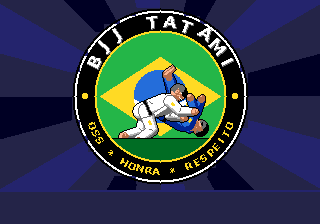
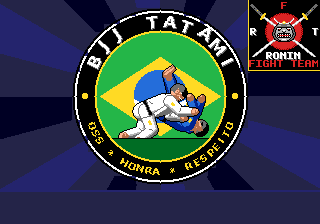
Blason du club Ronin Fight Team : etendards dans les 3 arenes, panneau pub, ecran titre
Claude-Session: https://claude.ai/code/session_01HQRDuJ1VTLTutMfaZuDvsE

Changed region(s): [[0.75, 0.0, 1.0, 0.3438]]

diff --git a/tools/art/logo.py b/tools/art/logo.py
@@ -1,0 +1,164 @@
+"""Blason du club (Ronin Fight Team) redessine en pixel art aux couleurs de PAL3.
+
+Le soleil rouge, les katanas croises et les lettres sont dessines a la main (traits nets),
+le casque et le masque de samourai sont dessines pixel par pixel (MASK).
+"""
+import math
+import os
+
+import numpy as np
+from PIL import Image, ImageEnhance
+
+from build_ui import PAL3, K, WH, LG, DG, RD, DR, YE, OR
+from font import glyph
+
+ROOT = os.path.dirname(os.path.dirname(os.path.dirname(os.path.abspath(__file__))))
+SRC = os.path.join(ROOT, "res", "logo", "ronin_src.jpg")
+
+
+def _quant(a, use):
+    pal = np.array([PAL3[i] for i in use], float)
+    d = ((a[:, :, None, :] - pal[None, None]) ** 2).sum(-1)
+    return np.array(use)[d.argmin(-1)]
+
+
+MASK = [
+    "..W..................W..",
+    "..WL................LW..",
+    "...WL..............LW...",
+    "....WL.....YY.....LW....",
+    ".....WLL..YWWY..LLW.....",
+    "......KWWWLYYLWWWK......",
+    ".....KDDDDDDDDDDDDK.....",
+    "....KDLLLDDDDDDLLLDK....",
+    "...KDDDDDDDDDDDDDDDDK...",
+    "..KDDKKKKKKKKKKKKKKDDK..",
+    "..KDKWWWWKLLLLKWWWWKDK..",
+    ".KDDKLKRKLLLLLLKRKLKDDK.",
+    ".KDKLLKKLLLWWLLLKKLLKDK.",
+    ".KDKLLLLLLKLLKLLLLLLKDK.",
+    "KDDKLLLLLLLKKLLLLLLLKDDK",
+    "KDKDLLKKKKKKKKKKKKLLDKDK",
+    "KDKDLKWKWKWKKWKWKWKLDKDK",
+    "KDDKLKKRRRRRRRRRRKKLKDDK",
+    ".KDKLKWKWKWKKWKWKWKLKDK.",
+    ".KDDKLKKKKKKKKKKKKLKDDK.",
+    "..KDDKLLLLLLLLLLLLKDDK..",
+    "..KKDDKLLLWWWWLLLKDDKK..",
+    "....KKDKKLLLLLLKKDKK....",
+    "......KKKKKKKKKKKK......",
+]
+MCOL = {"K": K, "D": DG, "L": LG, "W": WH, "R": RD, "Y": YE}
+
+
+def _mask_paste(a, x0, y0):
+    for y, row in enumerate(MASK):
+        assert len(row) == 24, (y, len(row))
+        for x, ch in enumerate(row):
+            if ch != "." and 0 <= y0 + y < a.shape[0] and 0 <= x0 + x < a.shape[1]:
+                a[y0 + y, x0 + x] = MCOL[ch]
+
+
+def _text(a, s, x, y, c, shadow=None):
+    for i, ch in enumerate(s):
+        g = glyph(ch)
+        for gy in range(7):
+            for gx in range(6):
+                if g[gy][gx]:
+                    if shadow is not None and 0 <= y + gy + 1 < a.shape[0] and 0 <= x + i * 7 + gx + 1 < a.shape[1]:
+                        if a[y + gy + 1, x + i * 7 + gx + 1] != c:
+                            a[y + gy + 1, x + i * 7 + gx + 1] = shadow
+        for gy in range(7):
+            for gx in range(6):
+                if g[gy][gx] and 0 <= y + gy < a.shape[0] and 0 <= x + i * 7 + gx < a.shape[1]:
+                    a[y + gy, x + i * 7 + gx] = c
+
+
+def _line(a, x0, y0, x1, y1, c, wdt=1.0):
+    n = int(max(abs(x1 - x0), abs(y1 - y0)) * 3) + 1
+    for k in range(n + 1):
+        t = k / n
+        x, y = x0 + (x1 - x0) * t, y0 + (y1 - y0) * t
+        for dy in range(-2, 3):
+            for dx in range(-2, 3):
+                xx, yy = int(round(x + dx * 0.5)), int(round(y + dy * 0.5))
+                if (dx * 0.5) ** 2 + (dy * 0.5) ** 2 <= (wdt / 2) ** 2 + 0.01 and 0 <= yy < a.shape[0] and 0 <= xx < a.shape[1]:
+                    a[yy, xx] = c
+
+
+def badge(w=56, h=56, subtitle=False):
+    """blason complet : tableau h x w d'indices PAL3, fond K."""
+    a = np.full((h, w), K, np.int32)
+    cx = w / 2 - 0.5
+    top = 9
+    cy = top + (h - top - (17 if subtitle else 9)) / 2
+    R = min(w * 0.27, (h - top) * 0.33)
+    yy, xx = np.mgrid[0:h, 0:w]
+    r = np.hypot(xx - cx, yy - cy)
+    # soleil rouge
+    a[r <= R] = RD
+    a[(r <= R) & (r > R - 1.5) & ((xx + yy) % 2 == 0)] = DR
+    # katanas croises : poignee en haut, lame vers le bas
+    for s in (-1, 1):
+        hx, hy = cx + s * (w * 0.46), top - 6           # bout de la poignee
+        gx_, gy_ = cx + s * (w * 0.30), top + 5         # garde (tsuba)
+        bx, by = cx - s * (w * 0.44), h - (12 if subtitle else 6)   # pointe
+        _line(a, hx, hy, gx_, gy_, DG, 2.2)
+        # tresse de la poignee
+        for k in range(1, 4):
+            t = k / 4
+            px, py = int(round(hx + (gx_ - hx) * t)), int(round(hy + (gy_ - hy) * t))
+            if 0 <= py < h and 0 <= px < w:
+                a[py, px] = YE if k == 2 else K
+        _line(a, gx_, gy_, bx, by, LG, 1.6)
+        _line(a, gx_ + s * 0.5, gy_ - 0.5, bx + s * 0.5, by - 0.5, WH, 0.9)
+        dx, dy = bx - hx, by - hy
+        n = math.hypot(dx, dy)
+        px_, py_ = -dy / n * 2.6, dx / n * 2.6
+        _line(a, gx_ - px_, gy_ - py_, gx_ + px_, gy_ + py_, YE, 1.6)
+        a[int(round(gy_)), int(round(gx_))] = OR
+    # casque et masque de samourai (kabuto + menpo)
+    _mask_paste(a, int(round(cx - 11.5)), int(round(cy - 13)))
+    # lettres R, F, T
+    _text(a, "F", int(cx - 2), 0, RD)
+    _text(a, "R", 1, int(cy) - 3, WH, DG)
+    _text(a, "T", w - 7, int(cy) - 3, WH, DG)
+    # nom du club
+    ty = h - (16 if subtitle else 8)
+    _text(a, "RONIN", int(cx - 17), ty, WH, DG)
+    if subtitle:
+        _text(a, "FIGHT TEAM", int(cx - 35), ty + 8, RD)
+    return a
+
+
+def banner(w=56, h=64):
+    """etendard suspendu : tringle, blason, franges dorees."""
+    a = np.full((h, w), K, np.int32)
+    a[0:3, :] = DG
+    a[1, :] = LG
+    a[0:3, 0] = YE
+    a[0:3, w - 1] = YE
+    a[3:h - 6, 3:w - 3] = badge(w - 6, h - 9)
+    a[3:h - 6, 0] = DG
+    a[3:h - 6, w - 1] = DG
+    a[3:h - 6, 1:3] = K
+    a[3:h - 6, w - 3:w - 1] = K
+    for x in range(w):
+        for y in range(h - 6, h):
+            a[y, x] = YE if (y - (h - 6)) < 2 else (OR if (x % 3 != 2 and y - (h - 6) < 3 + (x % 3) * 2) else K)
+    return a
+
+
+def to_rgb(a):
+    return np.array(PAL3, np.uint8)[a]
+
+
+if __name__ == "__main__":
+    out = [Image.fromarray(to_rgb(badge(56, 56))).resize((224, 224), Image.NEAREST),
+           Image.fromarray(to_rgb(badge(72, 72, True))).resize((288, 288), Image.NEAREST),
+           Image.fromarray(to_rgb(badge(40, 40))).resize((160, 160), Image.NEAREST)]
+    W = Image.new("RGB", (224 + 288 + 160 + 40, 288), (255, 0, 255))
+    x = 0
+    for i in out:
+        W.paste(i, (x, 0)); x += i.width + 20
+    W.save(os.environ.get("OUT", "/tmp/logo_test.png"))

diff --git a/tools/art/build_bg.py b/tools/art/build_bg.py
@@ -20,6 +20,7 @@ sys.path.insert(0, os.path.dirname(os.path.abspath(__file__)))
 from build_ui import PAL3  # noqa: E402
 from render import to_vdp  # noqa: E402
 from font import glyph  # noqa: E402
+from logo import banner  # noqa: E402
 
 ROOT = os.path.dirname(os.path.dirname(os.path.dirname(os.path.abspath(__file__))))
 W, H = 512, 224
@@ -223,6 +224,15 @@ def mat(cv, main=(BL3, DBL3), border=(YE3, OR3), y0=FLOOR_TOP, stripe=8, seam_pe
                     cv.px(x, y, P3(WH3) if d < 0.25 and (x // 2 + y) % 2 == 0 else P3(main[0]))
 
 
+def club_banner(cv, x, y, w=56, h=64):
+    """etendard du club (Ronin Fight Team), tuiles PAL3 alignees."""
+    assert x % 8 == 0 and y % 8 == 0 and w % 8 == 0 and h % 8 == 0
+    b = banner(w, h)
+    for yy in range(h):
+        for xx in range(w):
+            cv.px(x + xx, y + yy, P3(int(b[yy, xx])))
+
+
 def ad_boards(cv, y0, y1, items):
     """Panneaux publicitaires (PAL3) le long de la barriere."""
     cv.rect(0, y0, W, y1, P3(K3))
@@ -267,10 +277,13 @@ def stage_arena():
             for xx in range(int(x - spread), int(x + spread)):
                 if (xx + y) % 2 == 0 and cv.a[y, xx % W] == 1:
                     cv.px(xx, y, 14)
+    # etendards du club accroches au-dessus des gradins
+    for x in (96, 352):
+        club_banner(cv, x, 56, 56, 64)
     # barriere publicitaire (PAL3)
     ad_boards(cv, 120, 144, [(BL3, WH3, "BJJ TATAMI", 96), (YE3, K3, "OSS!", 48), (RD3, WH3, "JIU-JITSU", 80),
                              (WH3, BL3, "TATAMI", 64), (GR3, YE3, "BRASIL", 64), (K3, YE3, "MUNDIAL", 64),
-                             (YE3, RD3, "OSS!", 48), (BL3, YE3, "16BIT", 48)])
+                             (K3, RD3, "RONIN F.T.", 96)])
     mat(cv, center_light=False)
     return cv, pal0
 
@@ -299,8 +312,10 @@ def stage_academy():
         for k in range(8):
             cv.px(x + 6 + k * 2, 54 + k, 15)
     # drapeaux et ceintures accrochees (PAL3 sur tuiles alignees)
-    for x in range(96, W, 128):
+    for x in (96, 352):
         flag_bra(cv, x, 56)
+    for x in (224, 480):
+        club_banner(cv, x, 56, 56, 56)
     for x in range(160 - 64, W, 256):
         cv.rect(x, 112, x + 56, 128, P3(K3))
         cv.rect(x + 1, 113, x + 55, 127, P3(WH3))
@@ -344,6 +359,16 @@ def flag_bra(cv, x, y):
 
 
 # ---------------------------------------------------------------- plage
+def beach_flag(cv):
+    """drapeau du club plante sur la plage (mat en PAL0, toile en PAL3)."""
+    for y in range(52, 112):
+        cv.px(185, y, 0)
+        cv.px(186, y, 14)
+        cv.px(187, y, 0)
+    cv.disc(186, 52, 1.6, 15, wrap=False)
+    club_banner(cv, 192, 56, 56, 56)
+
+
 def stage_beach():
     pal0 = [(36, 18, 54), (255, 182, 72), (255, 145, 54), (218, 90, 72), (145, 54, 90), (72, 36, 90),
             (255, 218, 145), (36, 54, 109), (54, 90, 145), (109, 145, 182), (18, 36, 54), (218, 164, 109),
@@ -389,6 +414,7 @@ def stage_beach():
     cv.rect(0, 136, W, 137, P3(OR3))
     # tapis sur le sable
     mat(cv, main=(RD3, DR3), border=(YE3, OR3), center_light=False)
+    beach_flag(cv)
     # palmiers (bords, PAL0) : tronc + palmes, devant la mer
     for px_ in (40, 296):
         for k in range(46):

diff --git a/tools/art/build_screens.py b/tools/art/build_screens.py
@@ -144,6 +144,15 @@ def title():
     # sol du badge
     cv.a[(yy > cy + 42) & (r <= inner)] = P3(DGR)
     cv.a[(yy == cy + 42) & (r <= inner)] = P3(K)
+    # blason du club (Ronin Fight Team) en haut a droite
+    from logo import badge
+    b = badge(70, 66, subtitle=True)
+    cv.rect(248, 0, 320, 72, P3(K))
+    cv.rect(248, 0, 249, 71, P3(YE))
+    cv.rect(248, 70, 320, 71, P3(YE))
+    for y in range(66):
+        for x in range(70):
+            cv.a[2 + y, 249 + x] = P3(int(b[y, x]))
     # bande du menu
     cv.a[190:, :] = P3(NV)
     cv.a[190, :] = P3(YE)
